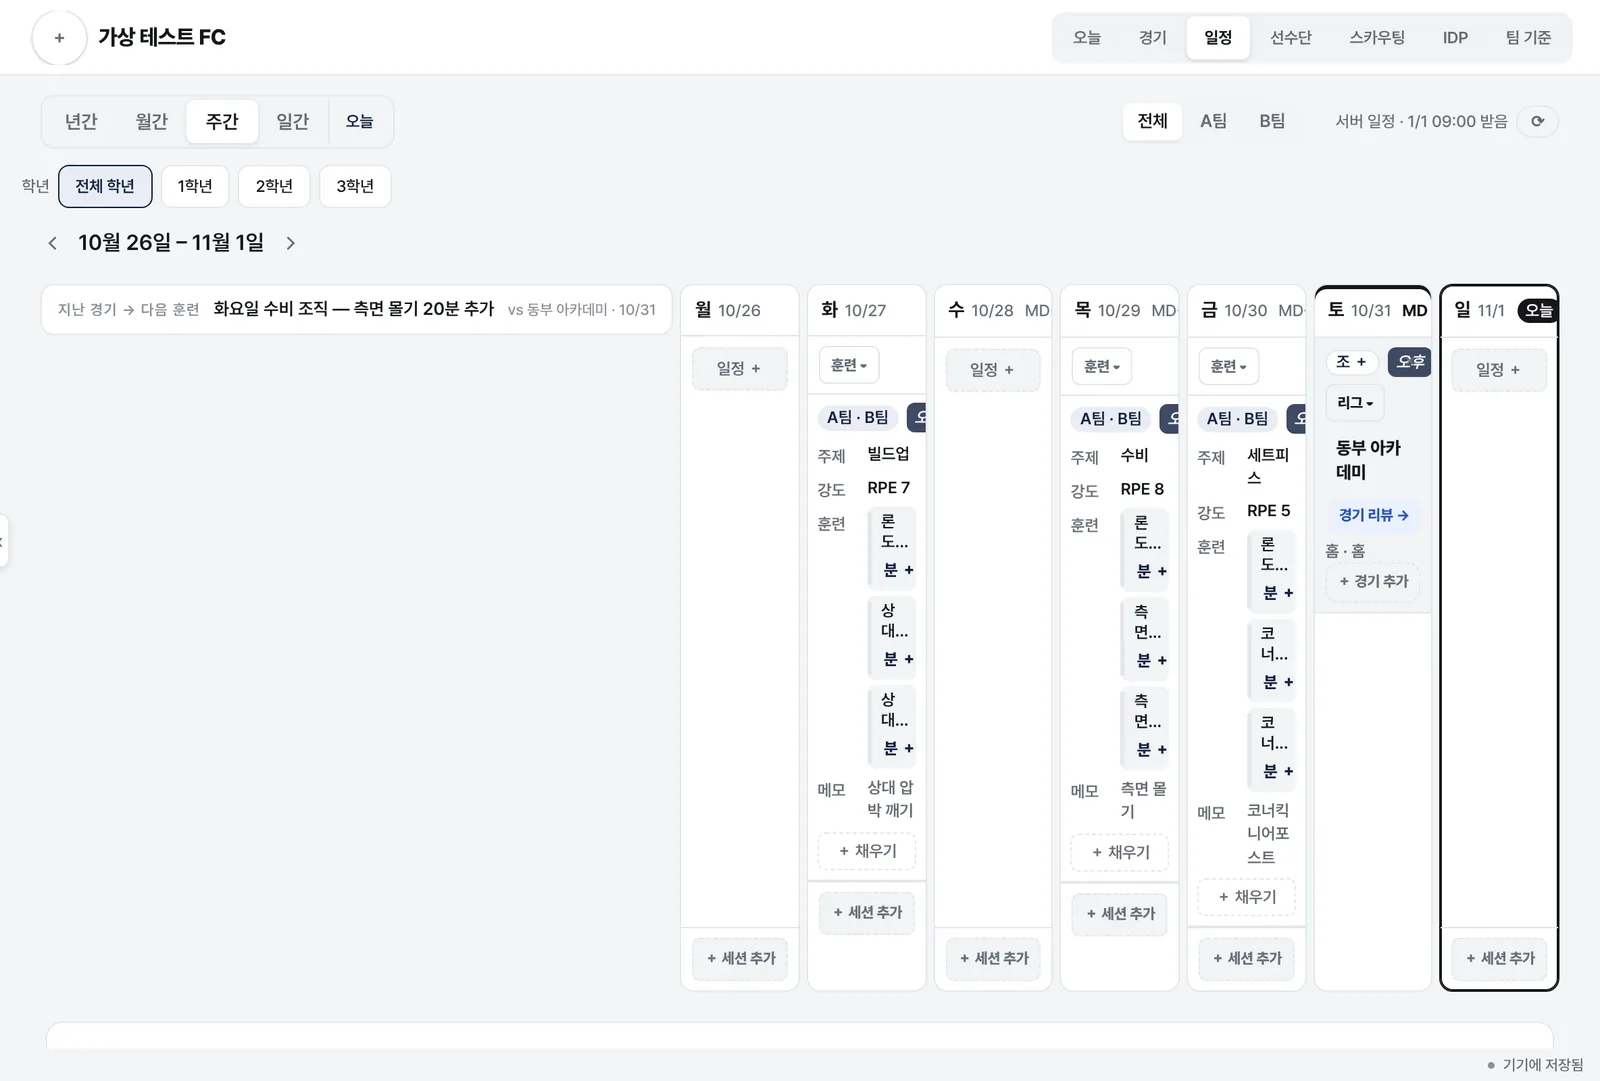
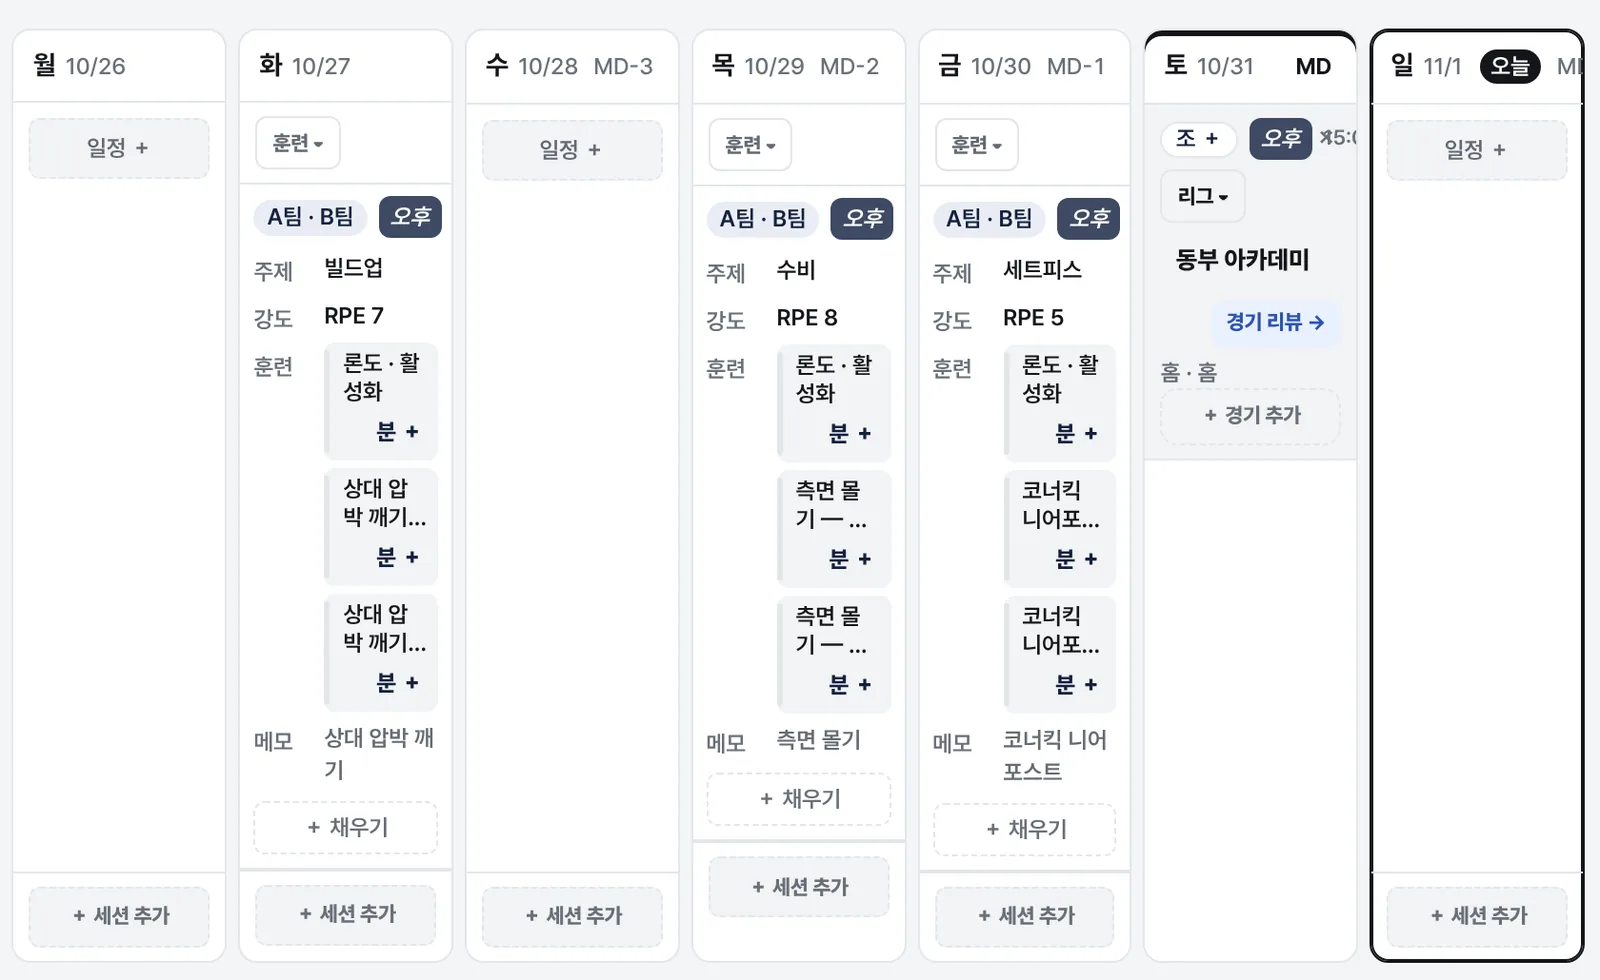
소개 페이지: 주간 일정 캡처를 요일 칸만 다시 잘라 넣기 (3.234)
- 1280px 창의 주간 일정은 «지난 경기 → 다음 훈련» 띠가 왼쪽 넓은 칸을 차지해 요일 칸이 눌려 보였다. 1680px 창에서 다시 찍어 월~일 일곱 칸만 잘랐다(1600×980).

Claude-Session: https://claude.ai/code/session_01TXzJxbVL6SHegzXnEJRyLo

diff --git a/landing.html b/landing.html
@@ -299,7 +299,7 @@
         <div class="q">압박 트리거를 세 개 잡았는데 실제로는 하나만 다뤘다 — 왜?<span>주제 · 강도 · 블록 · 메모 · 지난 경기 → 다음 훈련</span></div>
       </div>
       <figure class="shotf">
-        <img src="/assets/landing/schedule-week.webp" alt="주간 일정 — 세션별 주제·강도·훈련 블록·메모와 지난 경기에서 이어진 다음 훈련" width="1600" height="1081" loading="lazy">
+        <img src="/assets/landing/schedule-week.webp" alt="주간 일정 — 요일별 세션의 주제·강도·훈련 블록·메모" width="1600" height="980" loading="lazy">
         <figcaption>실제 화면 · 가상 팀 자료</figcaption>
       </figure>
     </div>
